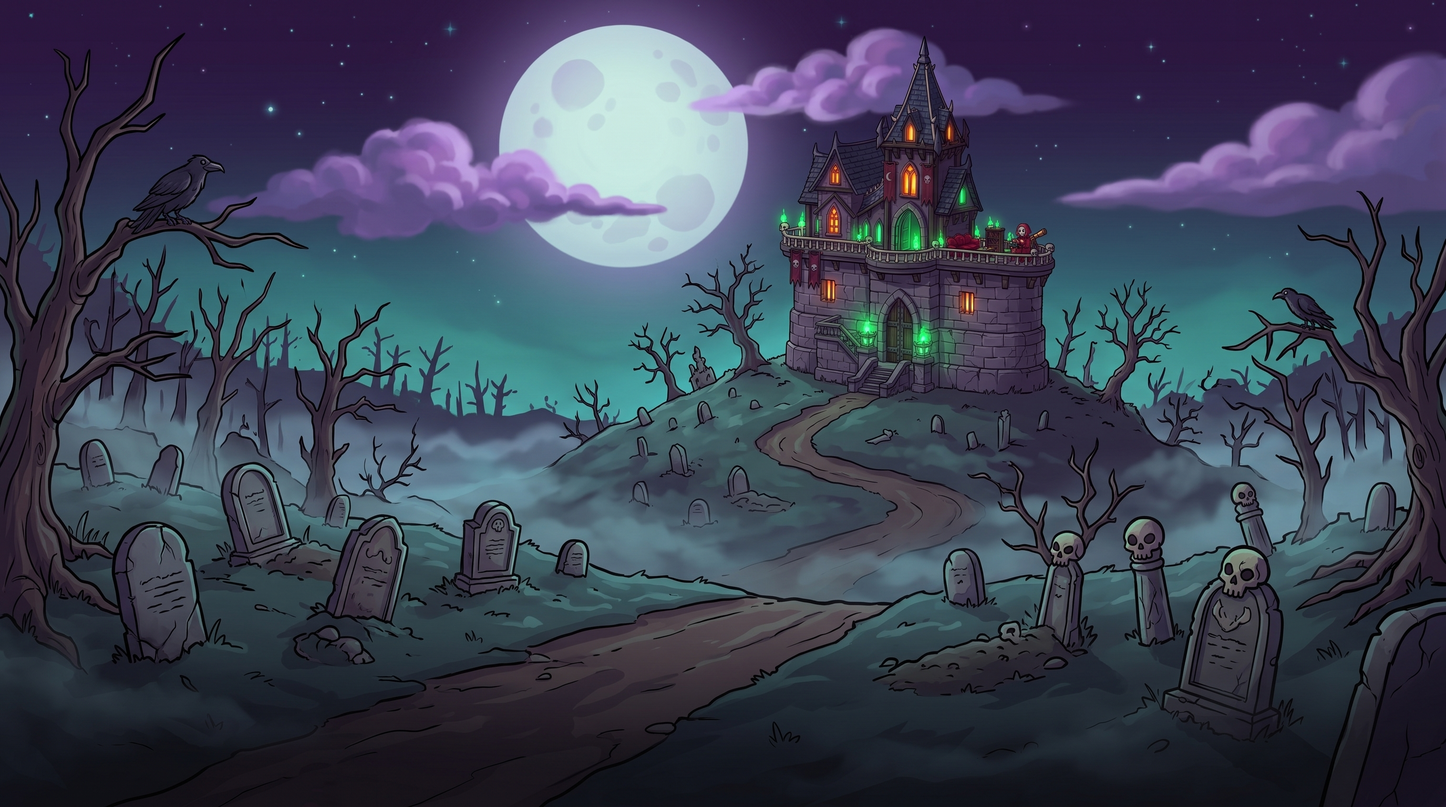
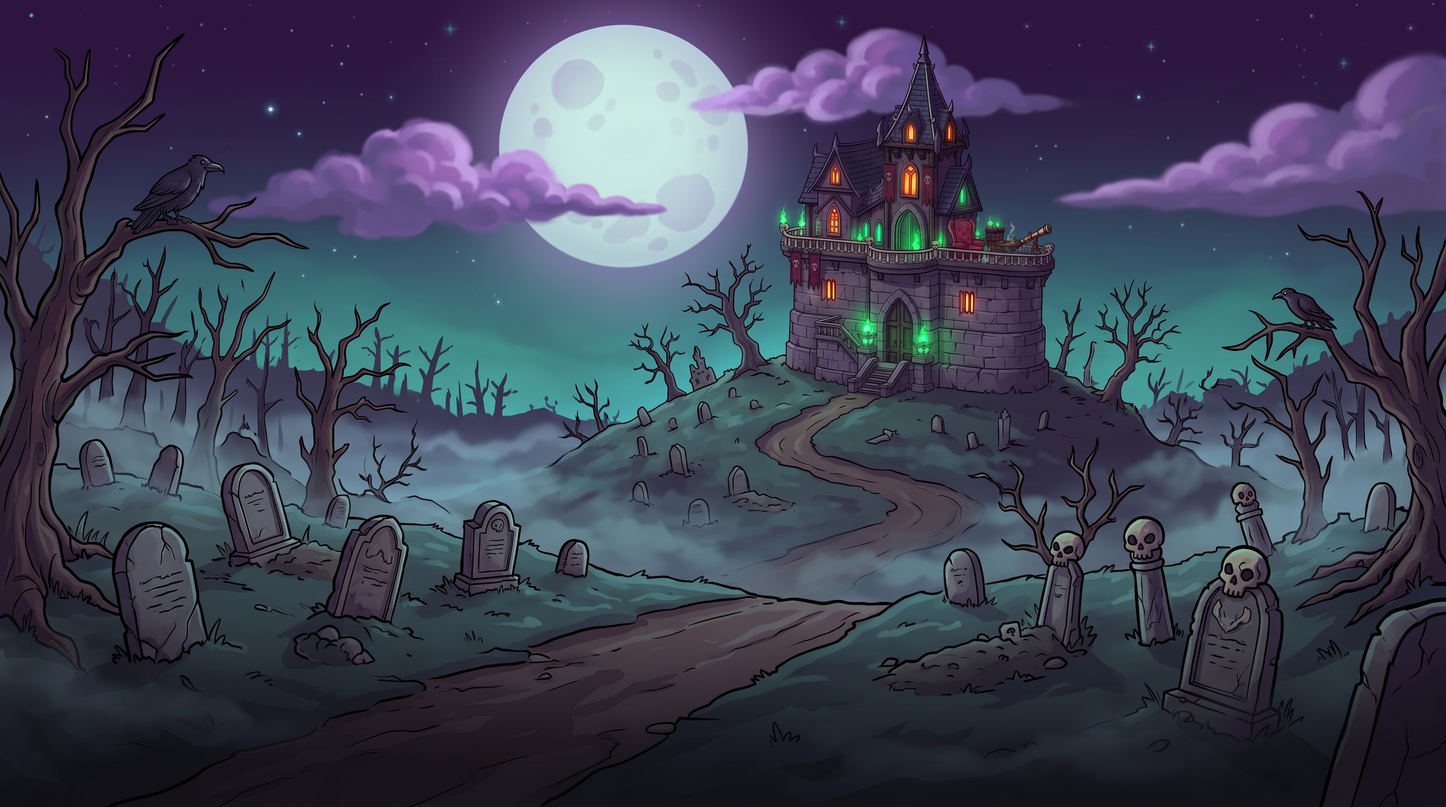
Play öne çıkan görseli (1024x500), açılış 1. plan düzenlenmiş resim, pazarlama listesi

diff --git a/magaza/README.md b/magaza/README.md
@@ -21,7 +21,7 @@ Ekran görüntüleri oyunun kendisinden alındı (tarayıcı, test kaydı). Üst
 
 ## Hâlâ gereken (Caner)
 
-1. **Simge: HAZIR (11 Eki).** Gemini çizimi `varliklar/ham/nm_simge.jpg` → `simge_isle.py` ile iOS + Android'e işlendi. Mağaza dosyaları: `simge_1024.png` (App Store), `play_simge_512.png` (Play). Google Play için 1024×500 öne çıkan görsel hâlâ gerekiyor.
+1. **Simge: HAZIR (11 Eki).** Gemini çizimi `varliklar/ham/nm_simge.jpg` → `simge_isle.py` ile iOS + Android'e işlendi. Mağaza dosyaları: `simge_1024.png` (App Store), `play_simge_512.png` (Play). Google Play öne çıkan görseli HAZIR (18 Eki): `play_one_cikan_1024x500.png` (Gemini, ham `varliklar/ham/nm42_play_banner.jpg`).
 2. **Gizlilik politikası adresi:** `gizlilik.html` içindeki `[İLETİŞİM E-POSTASI]` yerine mağazada görünecek bir iletişim adresi yazılmalı (depo herkese açık, kişisel adres yazılmadı). Sonra sayfa bir yere yüklenmeli (ör. GitHub Pages; depo zaten herkese açık). Bu, herkese açık yayın olduğu için Caner'in onayıyla yapılacak.
 3. **Hesaplar:** Apple Developer Program (yıllık 99 $), Google Play Console (tek sefer 25 $), vergi ve banka bilgileri.
 4. **Gelir modeli (12 Eki, Caner onayı):** ücretsiz indirme, ilk 10 bölüm ücretsiz; tam oyun tek seferlik **4,99 $ / 149,99 ₺** (`mortimer_hazine`, game.js MONET). Zorunlu ara reklam YOK; yalnız isteğe bağlı ödüllü reklam (tam oyunda reklamsız). Araştırma: `arastirma/gelir-ve-pazarlama.md`.
